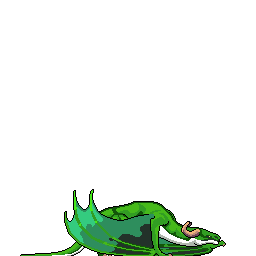
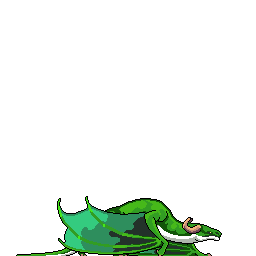
add change background, charakter movment, enemy movmanet

Changed region(s): [[0.1562, 0.7188, 0.875, 1.0], [0.0625, 0.9688, 0.0938, 1.0]]

diff --git a/models/world.class.js b/models/world.class.js
@@ -6,27 +6,57 @@ class World {
 
     ];
     backgroundObjects = [
-        new BackgroundObjekt('./assets/img/5_background/background.png',150, 0, 0),
-        new BackgroundObjekt('./assets/img/5_background/tower.png',210, 0, 0),
-        new BackgroundObjekt('./assets/img/5_background/bridge.png',290, 0, 190)
+        new BackgroundObjekt('./assets/img/5_background/sky.png', 480, -1000, 0),
+        new BackgroundObjekt('./assets/img/5_background/mountains.png', 480, -1000, 0),
+        new BackgroundObjekt('./assets/img/5_background/ground.png', 480, -1000, 0),
+        new BackgroundObjekt('./assets/img/5_background/sky.png', 480, 0, 0),
+        new BackgroundObjekt('./assets/img/5_background/mountains.png', 480, 0, 0),
+        new BackgroundObjekt('./assets/img/5_background/ground.png', 480, 0, 0),
+        new BackgroundObjekt('./assets/img/5_background/sky.png', 480, 1000, 0),
+        new BackgroundObjekt('./assets/img/5_background/mountains.png', 480, 1000, 0),
+        new BackgroundObjekt('./assets/img/5_background/ground.png', 480, 1000, 0),
+        new BackgroundObjekt('./assets/img/5_background/sky.png', 480, 2000, 0),
+        new BackgroundObjekt('./assets/img/5_background/mountains.png', 480, 2000, 0),
+        new BackgroundObjekt('./assets/img/5_background/ground.png', 480, 2000, 0),
+        new BackgroundObjekt('./assets/img/5_background/sky.png', 480, 3000, 0),
+        new BackgroundObjekt('./assets/img/5_background/mountains.png', 480, 3000, 0),
+        new BackgroundObjekt('./assets/img/5_background/ground.png', 480, 3000, 0),
+        new BackgroundObjekt('./assets/img/5_background/sky.png', 480, 4000, 0),
+        new BackgroundObjekt('./assets/img/5_background/mountains.png', 480, 4000, 0),
+        new BackgroundObjekt('./assets/img/5_background/ground.png', 480, 4000, 0),
+        new BackgroundObjekt('./assets/img/5_background/sky.png', 480, 5000, 0),
+        new BackgroundObjekt('./assets/img/5_background/mountains.png', 480, 5000, 0),
+        new BackgroundObjekt('./assets/img/5_background/ground.png', 480, 5000, 0)
     ];
     canvas;
     ctx;
+    keyboard;
+    camera_x = 0;
 
-    constructor(canvas) {
+    constructor(canvas, keyboard) {
         this.ctx = canvas.getContext('2d');
         this.canvas = canvas;
+        this.keyboard = keyboard;
         this.draw();
+        this.setWorld();
     }
 
+    setWorld() {
+        this.character.world = this;
+    }
 
     draw() {
         this.ctx.clearRect(0, 0, this.canvas.width, this.canvas.height);
 
+        this.ctx.translate(this.camera_x, 0);
+
         this.addObjectsToMap(this.backgroundObjects);
         this.addToMap(this.character);
         this.addObjectsToMap(this.enemies);
-        
+
+        this.ctx.translate(-this.camera_x, 0);
+
+
         let self = this
         requestAnimationFrame(function () {
             self.draw();
@@ -40,6 +70,16 @@ class World {
     }
 
     addToMap(mo) {
+        if (mo.otherDirection) {
+            this.ctx.save();
+            this.ctx.translate(mo.width, 0);
+            this.ctx.scale(-1, 1);
+            mo.x = mo.x * -1;
+        }
         this.ctx.drawImage(mo.img, mo.x, mo.y, mo.width, mo.height);
+        if (mo.otherDirection) {
+            mo.x = mo.x * -1;
+            this.ctx.restore();
+        }
     }
 }

diff --git a/models/character.class.js b/models/character.class.js
@@ -1,12 +1,60 @@
-class Character extends MovableObject{
+class Character extends MovableObject {
 
     height = 300;
     width = 300;
-    y = 60;
+    y = 140;
+    speed = 5;
+    images_walk = [
+        './assets/img/2_character_dragon/2_walk/walk_00.png',
+        './assets/img/2_character_dragon/2_walk/walk_01.png',
+        './assets/img/2_character_dragon/2_walk/walk_02.png',
+        './assets/img/2_character_dragon/2_walk/walk_03.png',
+        './assets/img/2_character_dragon/2_walk/walk_04.png',
+        './assets/img/2_character_dragon/2_walk/walk_05.png',
+        './assets/img/2_character_dragon/2_walk/walk_06.png',
+        './assets/img/2_character_dragon/2_walk/walk_07.png',
+        './assets/img/2_character_dragon/2_walk/walk_08.png',
+        './assets/img/2_character_dragon/2_walk/walk_09.png',
+        './assets/img/2_character_dragon/2_walk/walk_10.png',
+        './assets/img/2_character_dragon/2_walk/walk_11.png'
+
+    ];
+    world;
 
     constructor() {
         super().loadImage('./assets/img/2_character_dragon/2_walk/walk_00.png');
+        this.loadImages(this.images_walk);
+        this.animate();
     }
+
+
+    animate() {
+
+        setInterval(() => {
+            if (this.world.keyboard.RIGHT) {
+                this.x += this.speed;
+                this.otherDirection = false;
+            }
+
+            if (this.world.keyboard.LEFT) {
+                this.x -= this.speed;
+                this.otherDirection = true;
+            }
+            this.world.camera_x = -this.x;
+        }, 1000 / 60);
+
+
+        setInterval(() => {
+            if (this.world.keyboard.RIGHT || this.world.keyboard.LEFT) {
+                let i = this.currentImage % this.images_walk.length;
+                let path = this.images_walk[i];
+                this.img = this.imageCache[path];
+                this.currentImage++;
+            }
+        }, 150);
+    }
+
+
 
     jump() {
 

diff --git a/scripts/game.js b/scripts/game.js
@@ -1,14 +1,65 @@
 let canvas;
 let world;
+let keyboard = new Keyboard();
 
 
 
 function init() {
     canvas = document.getElementById('canvas');
-    world = new World(canvas);
-
-
+    world = new World(canvas, keyboard);
 
     console.log('My Character is', world.character);
-    
+
 }
+
+window.addEventListener("keydown", (e) => {
+    if (e.keyCode == 87) {
+        keyboard.UP = true;
+    }
+
+    if (e.keyCode == 83) {
+        keyboard.DOWN = true;
+    }
+
+    if (e.keyCode == 65) {
+        keyboard.LEFT = true;
+    }
+
+    if (e.keyCode == 68) {
+        keyboard.RIGHT = true;
+    }
+
+    if (e.keyCode == 32) {
+        keyboard.SPACE = true;
+    }
+
+    if (e.keyCode == 70) {
+        keyboard.F = true;
+    }    
+});
+
+window.addEventListener("keyup", (e) => {
+    if (e.keyCode == 87) {
+        keyboard.UP = false;
+    }
+
+    if (e.keyCode == 83) {
+        keyboard.DOWN = false;
+    }
+
+    if (e.keyCode == 65) {
+        keyboard.LEFT = false;
+    }
+
+    if (e.keyCode == 68) {
+        keyboard.RIGHT = false;
+    }
+
+    if (e.keyCode == 32) {
+        keyboard.SPACE = false;
+    }
+
+    if (e.keyCode == 70) {
+        keyboard.F = false;
+    }
+});

diff --git a/models/knights.class.js b/models/knights.class.js
@@ -1,10 +1,33 @@
 class Knight extends MovableObject {
 
+    images_walk = [
+        './assets/img/3_enemies/night_1/1_walk/walk_00.png',
+        './assets/img/3_enemies/night_1/1_walk/walk_01.png',
+        './assets/img/3_enemies/night_1/1_walk/walk_02.png',
+        './assets/img/3_enemies/night_1/1_walk/walk_03.png',
+        './assets/img/3_enemies/night_1/1_walk/walk_04.png',
+        './assets/img/3_enemies/night_1/1_walk/walk_05.png',
+        './assets/img/3_enemies/night_1/1_walk/walk_06.png',
+        './assets/img/3_enemies/night_1/1_walk/walk_07.png'
+    ];
+
 
     constructor() {
         super().loadImage('./assets/img/3_enemies/night_1/1_walk/walk_00.png');
+        this.loadImages(this.images_walk);
+        this.x = 250 + Math.random() * 400;
+        this.speed = 0.15 + Math.random() * 0.35;
+        this.animate();
+    }
 
-        this.x = 250 + Math.random() *400;
+    animate() {
+        this.moveLeft();
+        setInterval(() => {
+            let i = this.currentImage % this.images_walk.length;
+            let path = this.images_walk[i];
+            this.img = this.imageCache[path];
+            this.currentImage++;
+        }, 250);
     }
 
 }

diff --git a/models/movable-object.class.js b/models/movable-object.class.js
@@ -1,9 +1,13 @@
 class MovableObject {
     x = 0;
-    y = 240;
+    y = 320;
     img;
     height = 120;
     width = 120;
+    imageCache = {};
+    currentImage = 0;
+    speed = 0.15;
+    otherDirection = false;
 
 
     loadImage(path) {
@@ -11,13 +15,20 @@ class MovableObject {
         this.img.src = path;
     }
 
+    loadImages(arr) {
+        arr.forEach((path) => {
+            let img = new Image();
+            img.src = path;
+            this.imageCache[path] = img;
+        });
+    }
 
     moveRight() {
-        console.log('Moving right');
     }
 
     moveLeft() {
-        console.log('Moving left');
+        setInterval(() => {
+            this.x -= this.speed;
+        }, 1000 / 60);
     }
-
 }

diff --git a/index.html b/index.html
@@ -9,6 +9,7 @@
     <link rel="stylesheet" href="./style.css">
     <script src="./models/world.class.js" defer></script>
     <script src="./models/movable-object.class.js" defer></script>
+    <script src="./models/keyboard.class.js" defer></script>
     <script src="./models/background-object.class.js" defer></script>
     <script src="./models/character.class.js" defer></script>
     <script src="./models/knights.class.js"defer></script>

diff --git a/models/background-object.class.js b/models/background-object.class.js
@@ -1,6 +1,6 @@
 class BackgroundObjekt extends MovableObject{
 
-    width = 720;
+    width = 1000;
 
     constructor(imgePath,height, x, y) {
         super().loadImage(imgePath);
@@ -8,6 +8,4 @@ class BackgroundObjekt extends MovableObject{
         this.x = x;
         this.y = y;
     }
-
-
 }

diff --git a/models/keyboard.class.js b/models/keyboard.class.js
@@ -1,0 +1,12 @@
+class Keyboard {
+    LEFT = false;
+    RIGHT = false;
+    UP = false;
+    DOWN = false;
+    SPACE = false;
+    F = false;
+    
+    constructor() {
+        
+    }
+}
